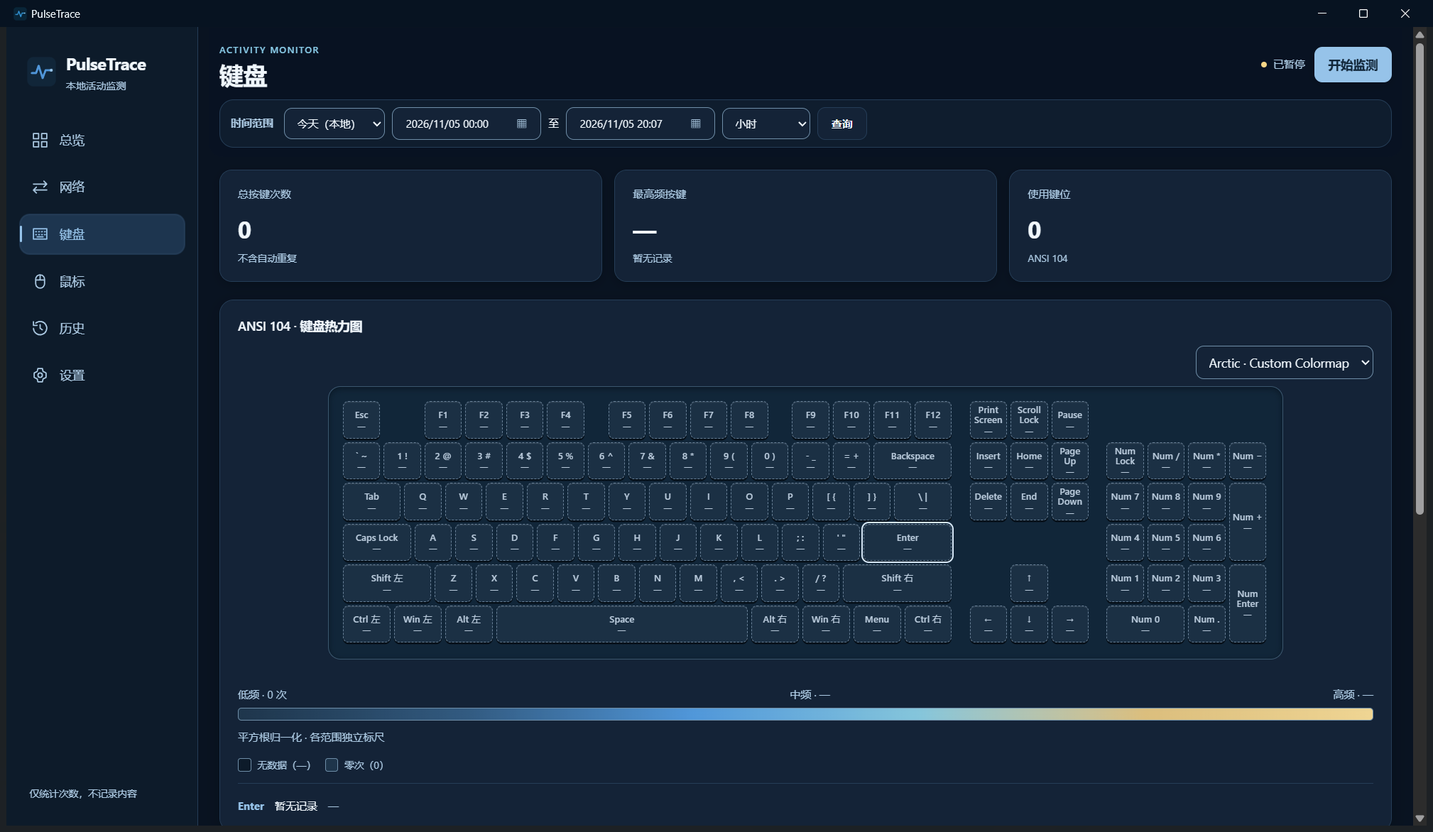
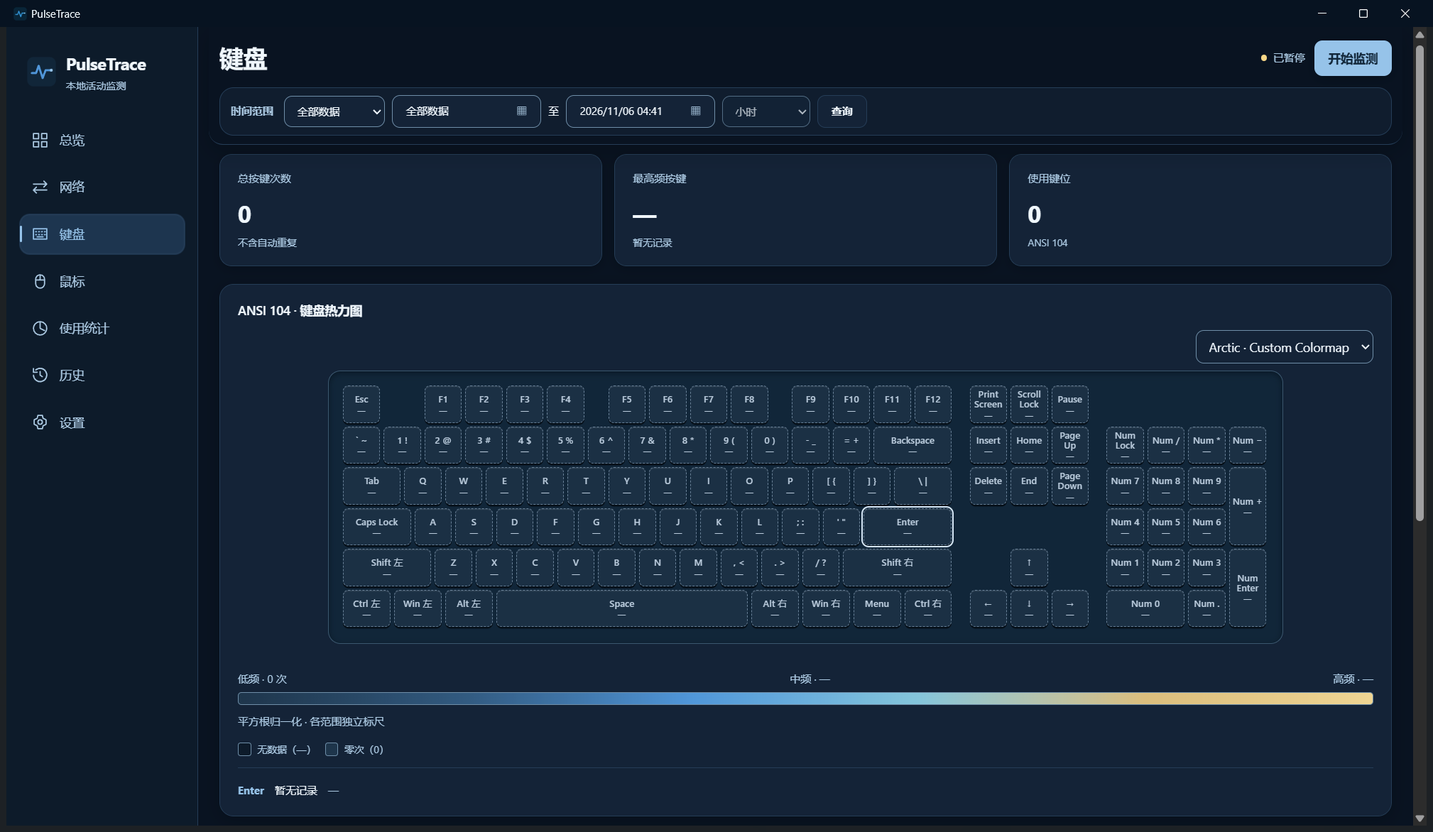
docs: update README with latest features and screenshots
Refresh six real paused Release captures and bilingual feature coverage. Record current process-tree measurements with their source and distinguish main from published RC3. Adjust only the mouse selftest screenshot framing; ordinary UI behavior is unchanged.

diff --git a/web/desktop/product.js b/web/desktop/product.js
@@ -59,7 +59,7 @@ async function refresh(force=false){if(loading){if(force)refreshQueued=true;retu
  if(page==='network'){await refreshTrafficRankings();await refreshTrafficCalendar();if(!force&&(rankingView.root?.contains(document.activeElement)||calendarView.root?.contains(document.activeElement)))return;}
  if(generation!==viewGeneration)return;
  const relevant=page==='keyboard'?rows.filter(r=>['keyboard','repeat','coverage'].includes(r.module)):page==='mouse'?rows.filter(r=>['mouse','coverage'].includes(r.module)):page==='network'?rows.filter(r=>r.module==='network'):rows;const key=JSON.stringify({page,usage:page==='usage'?usageView.result:null,monthlyTraffic,calendar:page==='network'?calendarView.result:null,comparisonRows:page==='dashboard'?comparisonRows:null,rows:relevant,protocolSamples:['network','dashboard'].includes(page)?protocolSamples:null,networkEvents:['network','dashboard'].includes(page)?networkEvents:null,config:state.config,network:['network','dashboard','settings'].includes(page)?state.network:null,monitoring:state.monitoring,input:state.input_ready,storage_error:state.storage_error,network_error:state.network_error});window.pulseRefreshCount=(window.pulseRefreshCount||0)+1;if(!force&&key===renderKey)return;renderKey=key;clearCharts();const c=$('content');c.classList.remove('network-content');c.replaceChildren();mountRangeControls();$('title').textContent=names[page];document.querySelectorAll('nav button').forEach(b=>b.classList.toggle('active',b.dataset.page===page));({dashboard,network:networkPage,keyboard:keyboardPage,mouse:mousePage,history,settings,usage:appUsage}[page]||dashboard)(c);
- finishStartup();if(state.self_test&&!healthChecked){await validateLanguageState();await validateThemeState();await runLayoutChecks();await validateStaticInteractions();await validateUpdateNotice();validateDisclosureControls();await validateWidgetStyleSettings();if(page==='network')await validateTrafficRankingView();await validateCalendarLanguages();if(page==='dashboard')await validateScrollMaterial();if(page==='network'&&state.monitoring){await new Promise(resolve=>setTimeout(resolve,3000));state=await rpc('get_status');const fresh=await rpc('get_statistics',range);rows=fresh.rows;protocolSamples=fresh.protocol_samples||[];networkEvents=fresh.network_events||[];clearCharts();$('content').replaceChildren();networkPage($('content'));await new Promise(resolve=>requestAnimationFrame(resolve));}if(page==='network'||page==='settings')window.scrollTo({top:0,behavior:'instant'});if(page==='mouse')document.querySelector('.mouse-layout')?.scrollIntoView({block:'center'});if(page==='keyboard')document.querySelector('.keyboard-heat')?.closest('.panel').scrollIntoView({block:'start'});healthChecked=true;if(state.self_test_picker){validatePickerPersistence().then(()=>rpc('ping')).catch(e=>{error(e);rpc('selftest_failure',{message:e.message}).catch(()=>{});});}else await rpc('ping');}
+ finishStartup();if(state.self_test&&!healthChecked){await validateLanguageState();await validateThemeState();await runLayoutChecks();await validateStaticInteractions();await validateUpdateNotice();validateDisclosureControls();await validateWidgetStyleSettings();if(page==='network')await validateTrafficRankingView();await validateCalendarLanguages();if(page==='dashboard')await validateScrollMaterial();if(page==='network'&&state.monitoring){await new Promise(resolve=>setTimeout(resolve,3000));state=await rpc('get_status');const fresh=await rpc('get_statistics',range);rows=fresh.rows;protocolSamples=fresh.protocol_samples||[];networkEvents=fresh.network_events||[];clearCharts();$('content').replaceChildren();networkPage($('content'));await new Promise(resolve=>requestAnimationFrame(resolve));}if(page==='network'||page==='settings')window.scrollTo({top:0,behavior:'instant'});if(page==='mouse')document.querySelector('.mouse-layout')?.closest('.panel').scrollIntoView({block:'start'});if(page==='keyboard')document.querySelector('.keyboard-heat')?.closest('.panel').scrollIntoView({block:'start'});healthChecked=true;if(state.self_test_picker){validatePickerPersistence().then(()=>rpc('ping')).catch(e=>{error(e);rpc('selftest_failure',{message:e.message}).catch(()=>{});});}else await rpc('ping');}
  }catch(e){if(generation!==viewGeneration)return;error(e);if(state.self_test)rpc('selftest_failure',{message:String(e.message).slice(0,500)}).catch(()=>{});}finally{loading=false;if(refreshQueued){refreshQueued=false;queueMicrotask(()=>refresh(true));}else scheduleRefresh();if(updateOpenPending&&state.version){updateOpenPending=false;checkOpenUpdates();}}}
 const pageRanges=new Map();
 function navigate(next){if(!names[next])return;if(next!==page){viewGeneration++;

diff --git a/README_EN.md b/README_EN.md
@@ -1,64 +1,73 @@
 # PulseTrace
 
-A local keyboard, mouse and network activity monitor for Windows.
+A local keyboard, mouse, application usage and network activity monitor for Windows.
 
 [简体中文](README.md) · **English**
 
 ## Features
 
-- **Keyboard**: key counts, frequency and an ANSI 104 heatmap; aggregate counts only.
-- **Mouse**: five buttons, temporal double clicks, vertical/horizontal wheel events and cumulative deltas.
-- **App Usage**: foreground dwell and active time, rankings, hourly/daily trends, exclusions and CSV; [measurement details](docs/app-usage.md).
-- **Network**: interface status, switching history, upload/download rates and physical-interface IPv4/IPv6 traffic observations.
-- **Traffic rankings**: optional Mihomo application/connection-domain rankings with IP-family, time-range, search and sorting controls; domain history requires separate consent.
-- **Taskbar speed**: a native Windows 11 component with transparent background and two-line upload/download display; floating-window or tray fallback.
-- **History**: minute/hour/day and custom ranges, SQLite persistence, monthly network archives, export and backup.
+- **Keyboard**: aggregate key statistics, ANSI 104 layout and the continuous Arctic heatmap.
+- **Mouse**: a five-button diagram and ranking; Mouse4 Back, Mouse5 Forward; temporal double clicks, wheel events and deltas tracked separately.
+- **App Usage**: foreground dwell and active time, rankings, hourly/daily trends, exclusions and CSV export.
+- **Network**: egress upload/download, physical-interface IPv4/IPv6 observations, monthly daily-traffic calendars, interfaces and connection history.
+- **Traffic rankings**: optional Mihomo application/connection-domain rankings with family, range, search and sorting filters; domain history requires separate consent.
+- **Taskbar speed**: a transparent native two-line widget with font, size, units, precision, color and position settings; floating/tray fallback.
+- **History and settings**: All Data by default, minute/hour/day and custom ranges, SQLite, monthly archives, backups and export; Chinese/English, Deep Ocean / Pearl Mist, tray operation and dual-source update checks.
 
-Chinese/English, light/dark themes and tray background operation are supported. Collection starts paused. Input text and mouse trajectories are not recorded. IPv4/IPv6 observations and rankings depend on permissions, sampling and data quality; they do not represent complete system traffic or campus billing. See [measurement limits](docs/traffic-rankings.md).
+Collection starts paused. Input text, window titles and mouse trajectories are not recorded. Active time uses an idle threshold; IPv4/IPv6 and rankings depend on permissions, sampling and quality, and do not represent full-system traffic or campus billing. Unsigned update packages require manual installation after verification. [Measurement limits](docs/traffic-rankings.md) · [App Usage](docs/app-usage.md)
 
 ## Screenshots
 
-Real Release builds using isolated empty data directories and paused collection; no fabricated statistics or personal records. Page captures use 1600×900 DIP; the taskbar image is a native-size detail.
+Real x64 Release development build of main `b3a2cbf`, using isolated empty data and paused collection; no synthetic statistics or personal history. Pages use 1600×900 DIP; the taskbar image is an actual crop.
 
-| Dashboard | Network and rankings |
+| Dashboard | Network |
 | --- | --- |
-| ![Dashboard](docs/screenshots/dashboard.png) | ![Network and rankings](docs/screenshots/network.png) |
-| **ANSI 104 keyboard heatmap** | **Taskbar component (paused)** |
-| ![Keyboard heatmap](docs/screenshots/keyboard.png) | ![Taskbar component](docs/screenshots/taskbar.png) |
+| ![Dashboard](docs/screenshots/dashboard.png) | ![Network](docs/screenshots/network.png) |
+| **ANSI 104 keyboard heatmap** | **Taskbar widget (paused)** |
+| ![Keyboard heatmap](docs/screenshots/keyboard.png) | ![Taskbar widget](docs/screenshots/taskbar.png) |
 
-## Resource usage
+<details>
+<summary>Mouse and App Usage</summary>
 
-Measured on 2026-11-05: Windows 11 26300, Ryzen 5 5600 (12 logical processors), 31.92 GiB RAM, WebView2 156.0.4314.58. The x64 Release build is from main `14f4f1f`, with monitoring enabled, no deliberate input/network load, and ranking sources disabled. Each state ran for 45 seconds; values are means over seconds 10–40.
+| Mouse | App Usage |
+| --- | --- |
+| ![Mouse](docs/screenshots/mouse.png) | ![App Usage](docs/screenshots/usage.png) |
 
-| State | CPU (machine-normalized) | Private Bytes | Working Set |
+</details>
+
+## Resource Usage
+
+Measured main `d414ecf`: Windows 11 26300, Ryzen 5 5600 (12 logical processors), 31.92 GiB RAM, 125% DPI, WebView2 156.0.4314.58. Each run lasted 45 seconds; means use seconds 10–40, with monitoring enabled, no deliberate input/network load and ranking sources disabled.
+
+| State | CPU (machine normalized) | Private Bytes | Working Set |
 | --- | ---: | ---: | ---: |
-| Background monitoring, tray only | 0.031% | 8.30 MiB | 34.58 MiB |
-| Main window open, including WebView2 children | 0.095% | 261.07 MiB | 456.77 MiB |
-| Background monitoring + taskbar speed | 0.049% | 9.38 MiB | 40.47 MiB |
+| Background monitoring, tray only | 0.039% | 8.54 MiB | 34.69 MiB |
+| Main window open, including WebView2 children | 0.111% | 262.10 MiB | 460.99 MiB |
+| Background monitoring + taskbar speed | 0.022% | 9.20 MiB | 40.37 MiB |
 
-The taskbar component process alone averaged **2.81 MiB Private Bytes / 17.73 MiB Working Set**; no CPU-time increment was resolved during this short run. Tray-only mode also retains the helper, so its process memory is not the difference between the two totals. Private Bytes measures private committed memory; Working Set measures resident pages, with shared pages counted repeatedly when processes are summed.
+All rows include the native helper; the taskbar helper alone used **2.81 MiB Private Bytes / 17.55 MiB Working Set**. Private Bytes measures private committed memory; Working Set measures resident pages, and summing processes double-counts shared pages. These short runs establish neither long-term limits nor performance improvements.
 
-Actually installed program files occupied **17.39 MiB**, including the uninstaller but excluding the system WebView2 Runtime and `data`. After 45 seconds, the data directory used about **0.10 MiB** in background mode and **10.72 MiB** after first opening the UI, mostly WebView2 cache. These are file-size sums, not physical write volume or a long-term growth forecast. See [methodology and full results](docs/performance.md).
+Current program files listed by the installer total **11.07 MiB**, excluding the uninstaller, system Runtime and `data`; the current installed size including the uninstaller remains untested. After 45 seconds, data files totaled approximately **0.12 MiB** for background/taskbar and **10.73 MiB** with the window open, including WebView2 cache. Measurement reports are excluded; file sizes are not disk writes. [Methods and results](docs/performance.md)
 
-## Download and install
+## Download and Install
 
 [GitHub Releases](https://github.com/zhangchengxuv/PulseTrace/releases) · [Gitee Releases](https://gitee.com/zhangchenxuv/pulse-trace/releases)
 
 Windows 10/11 x64 with Microsoft Edge WebView2 Evergreen Runtime is required.
 
-- **Installer**: run `PulseTrace-Setup-*.exe` and choose a location. Data lives in its `data` subdirectory and is retained by default on uninstall.
-- **Portable**: extract the complete ZIP and launch `PulseTrace.exe`, keeping the Web resources, DLL and helpers together.
+- **Installer**: run `PulseTrace-Setup-*.exe`; data lives in the installation's `data` folder and is retained by default on uninstall.
+- **Portable**: extract the complete ZIP, retain Web assets, DLLs and helper, then run `PulseTrace.exe`.
 
-Candidate **v0.3.0-rc3** is available with matching assets on both sources. Main may be ahead of published packages; screenshots and measurements describe the development build above. [User guide](docs/desktop-guide.md) · [Build from source](docs/build.md).
+Public candidate **v0.3.0-rc3** has matching assets on both sources. The new UI and settings shown here are currently on main; installers have not been republished. [User guide](docs/desktop-guide.md) · [Build from source](docs/build.md)
 
-## Technology
+## Stack
 
 C++20 · Win32 / Raw Input · WebView2 · SQLite · CMake
 
-## AI development disclosure and license
+## AI Development and License
 
 PulseTrace is an open-source project developed with the assistance of OpenAI Codex. Its code, interface, and documentation were created with AI assistance and validated through builds and testing. This is not an official OpenAI product.
 
 - **AI tool**: OpenAI Codex.
-- **Confirmed model**: GPT-6. There is no complete model inventory for historical sessions; unverified models are not listed.
-- **License**: PulseTrace-owned source and documentation use the [MIT License](LICENSE). Third-party components retain their own licenses; see [third-party notices](THIRD-PARTY-NOTICES.md). TrafficMonitor was consulted for taskbar concepts, without porting its code.
+- **Verified model**: GPT-6; unconfirmed historical models are omitted.
+- **License**: project-owned code and documentation use the [MIT License](LICENSE). Dependencies retain their own licenses; see [third-party notices](THIRD-PARTY-NOTICES.md). TrafficMonitor was consulted for concepts; its code was not ported.

diff --git a/README.md b/README.md
@@ -1,44 +1,53 @@
 # PulseTrace
 
-面向 Windows 的本地键盘、鼠标与网络活动统计工具。
+面向 Windows 的本地键鼠、应用使用与网络活动统计工具。
 
 **简体中文** · [English](README_EN.md)
 
 ## 功能特性
 
-- **键盘**：按键次数、频率和 ANSI 104 热力图，仅保存聚合计数。
-- **鼠标**：五键、时间双击、垂直/水平滚轮事件与累计滚动量。
-- **应用使用**：前台停留与有效活跃时长、排行、小时/日期趋势、排除列表和 CSV；[统计说明](docs/app-usage.md)。
-- **网络**：接口状态、切换历史、上传/下载速率及物理接口 IPv4/IPv6 流量观测。
-- **流量排行**：可选 Mihomo 应用/连接域名排行，支持协议族、时间范围、搜索和排序；域名历史单独授权。
-- **任务栏网速**：Windows 11 原生组件、透明背景、上传/下载双行显示，支持悬浮窗或托盘回退。
-- **历史分析**：分钟/小时/天及自定义范围、SQLite 持久化、月度网络归档、导出与备份。
+- **键盘**：按键聚合统计、ANSI 104 布局及 Arctic 连续热力图。
+- **鼠标**：二维五键热力图与排行，Mouse4 后退、Mouse5 前进；时间双击、滚轮事件与 delta 分开统计。
+- **应用使用**：前台停留与有效活跃时长、排行、小时/日期趋势、排除列表及 CSV 导出。
+- **网络**：出口上传/下载、物理接口 IPv4/IPv6 观测、自然月每日流量热力图、接口与连接历史。
+- **流量排行**：可选 Mihomo 应用/连接域名排行，支持协议族、范围、搜索与排序；域名历史单独授权。
+- **任务栏网速**：原生透明双行组件，支持字体、字号、单位、精度、颜色及位置设置，提供悬浮窗/托盘回退。
+- **历史与设置**：默认全部数据、分钟/小时/天及自定义范围，SQLite、月度归档、备份与导出；中英双语、Deep Ocean / Pearl Mist、托盘后台及双源更新检查。
 
-支持中英双语、深浅色主题与后台托盘运行，首次启动默认暂停。不记录输入文本或鼠标轨迹。IPv4/IPv6 观测及排行受权限、采样与数据质量限制，不代表系统全量流量或校园网计费；[统计边界](docs/traffic-rankings.md)。
+首次启动默认暂停，不记录输入文本、窗口标题或鼠标轨迹。活跃时长使用空闲阈值；IPv4/IPv6 与排行受权限、采样及质量限制，不代表全系统流量或校园网计费。未签名更新包只支持校验后手动安装。[统计边界](docs/traffic-rankings.md) · [应用使用说明](docs/app-usage.md)
 
 ## 软件截图
 
-真实 Release 构建，采用独立空数据目录与暂停状态，未填充模拟统计或展示个人记录。页面统一为 1600×900 DIP；任务栏为原尺寸局部。
+main `b3a2cbf` 的真实 x64 Release 开发构建；独立空数据目录、暂停状态，无模拟统计或个人历史。页面为 1600×900 DIP，任务栏为实际局部。
 
-| 总览 | 网络与排行 |
+| 总览 | 网络 |
 | --- | --- |
-| ![总览](docs/screenshots/dashboard.png) | ![网络与排行](docs/screenshots/network.png) |
+| ![总览](docs/screenshots/dashboard.png) | ![网络](docs/screenshots/network.png) |
 | **ANSI 104 键盘热力图** | **任务栏组件（暂停）** |
 | ![键盘热力图](docs/screenshots/keyboard.png) | ![任务栏组件](docs/screenshots/taskbar.png) |
 
+<details>
+<summary>鼠标与应用使用统计</summary>
+
+| 鼠标 | 应用使用 |
+| --- | --- |
+| ![鼠标](docs/screenshots/mouse.png) | ![应用使用](docs/screenshots/usage.png) |
+
+</details>
+
 ## 性能占用
 
-2026-11-05，Windows 11 26300、Ryzen 5 5600（12 逻辑核）、31.92 GiB RAM、WebView2 156.0.4314.58。测试 main `14f4f1f` 的 x64 Release 构建，监测启用、无主动输入/网络负载，排行来源关闭。每种状态运行 45 秒，取第 10–40 秒均值。
+实测 main `d414ecf`：Windows 11 26300、Ryzen 5 5600（12 逻辑核）、31.92 GiB RAM、125% DPI、WebView2 156.0.4314.58。每组 45 秒，取第 10–40 秒均值；启用监测，未主动生成输入或网络负载，排行来源关闭。
 
 | 运行状态 | CPU（整机归一化） | Private Bytes | Working Set |
 | --- | ---: | ---: | ---: |
-| 后台监测，仅托盘 | 0.031% | 8.30 MiB | 34.58 MiB |
-| 主界面打开，含 WebView2 子进程 | 0.095% | 261.07 MiB | 456.77 MiB |
-| 后台监测 + 任务栏网速 | 0.049% | 9.38 MiB | 40.47 MiB |
+| 后台监测，仅托盘 | 0.039% | 8.54 MiB | 34.69 MiB |
+| 主界面打开，含 WebView2 子进程 | 0.111% | 262.10 MiB | 460.99 MiB |
+| 后台监测 + 任务栏网速 | 0.022% | 9.20 MiB | 40.37 MiB |
 
-任务栏组件进程单独为 **2.81 MiB Private Bytes / 17.73 MiB Working Set**，此短测未分辨到 CPU 时间增量。仅托盘模式也保留 helper，因此组件进程内存不等于两行总量之差。Private Bytes 是私有提交量；Working Set 是驻留工作集，进程求和会重复计算共享页。
+以上均包含原生 helper；任务栏 helper 单独为 **2.81 MiB Private Bytes / 17.55 MiB Working Set**。Private Bytes 是私有提交量；Working Set 是驻留工作集，进程求和会重复计算共享页。短测不代表长期上限或性能提升。
 
-实际安装程序文件 **17.39 MiB**（含卸载器，不含系统 WebView2 Runtime 和 `data`）。45 秒后数据目录：后台约 **0.10 MiB**，首次打开界面约 **10.72 MiB**，主要为 WebView2 缓存。以上为文件大小总和，不是物理写入量或长期增长预测。[采样方法与完整数据](docs/performance.md)。
+当前安装清单中的程序文件合计 **11.07 MiB**，不含卸载器、系统 Runtime 和 `data`；含卸载器的当前安装体积待测。45 秒后数据文件：后台/任务栏约 **0.12 MiB**，界面约 **10.73 MiB**，包含 WebView2 缓存；排除测量报告，不是磁盘写入量。[完整口径与实测](docs/performance.md)
 
 ## 下载安装
 
@@ -46,10 +55,10 @@
 
 Windows 10/11 x64，需要 Microsoft Edge WebView2 Evergreen Runtime。
 
-- **安装版**：运行 `PulseTrace-Setup-*.exe`，选择安装位置；数据位于安装目录的 `data`，卸载默认保留。
-- **便携版**：完整解压 ZIP 后运行 `PulseTrace.exe`，保留同目录的 Web 资源、DLL 和 helper。
+- **安装版**：运行 `PulseTrace-Setup-*.exe`；数据在安装目录的 `data`，卸载默认保留。
+- **便携版**：完整解压 ZIP，保留 Web 资源、DLL 和 helper，运行 `PulseTrace.exe`。
 
-当前候选版 **v0.3.0-rc3** 已在两源提供相同附件。main 可能领先于发布包；截图和性能对应上述开发构建。[使用说明](docs/desktop-guide.md) · [源码构建](docs/build.md)。
+公开候选版 **v0.3.0-rc3** 两源附件一致；本页新增界面与设置目前在 main，尚未重发安装包。[使用说明](docs/desktop-guide.md) · [源码构建](docs/build.md)
 
 ## 技术栈
 
@@ -60,5 +69,5 @@ C++20 · Win32 / Raw Input · WebView2 · SQLite · CMake
 PulseTrace 是一个使用 OpenAI Codex 辅助开发的开源项目。主要代码、界面和文档由 OpenAI 模型辅助生成，并经过实际构建与测试。本项目并非 OpenAI 官方产品。
 
 - **AI 工具**：OpenAI Codex。
-- **可确认模型**：GPT-6；历史会话没有完整模型清单，未核实的模型不列出。
-- **协议**：PulseTrace 自有源码及文档采用 [MIT License](LICENSE)；第三方组件保留各自许可，见 [第三方声明](THIRD-PARTY-NOTICES.md)。TrafficMonitor 仅作任务栏机制参考，未移植其代码。
+- **可核实模型**：GPT-6；未确认的历史模型不列出。
+- **协议**：自有源码及文档采用 [MIT License](LICENSE)；第三方组件保留各自许可，见 [第三方声明](THIRD-PARTY-NOTICES.md)。TrafficMonitor 仅作机制参考，未移植其代码。

diff --git a/docs/performance.md b/docs/performance.md
@@ -1,5 +1,49 @@
 # README 性能与素材核验 / Measurement and asset provenance
 
+## 当前 main：d414ecf
+
[1 lines of base64/hex data omitted]
+
+沿用下面相同方法和配置，三组依次运行各 45 秒，采样第 10–40 秒，样本数 50/48/49，有效墙钟 29.71/29.41/29.12 秒；普通用户监测启用、未主动生成输入或流量，排行来源关闭，AppUsage 开启、刷盘 30 秒。窗口组包含当前默认的异步打开更新检查。各实例均正常退出，无已观察子进程残留。
+
+| 状态 | CPU 均值 / 峰值 | Private Bytes 均值 / 峰值 MiB | Working Set 均值 / 峰值 MiB | 线程 / 句柄均值 | 进程 IO WriteTransfer 增量 |
+| --- | ---: | ---: | ---: | ---: | ---: |
+| 后台监测，仅托盘 | 0.039% / 0.431% | 8.54 / 8.78 | 34.69 / 34.87 | 17.7 / 439.1 | 129,555 B |
+| 主界面 + 全部已观察 WebView2 子进程 | 0.111% / 0.841% | 262.10 / 272.38 | 460.99 / 472.68 | 238.8 / 3994.0 | 1,072,070 B |
+| 后台监测 + 任务栏网速 | 0.022% / 0.216% | 9.20 / 9.57 | 40.37 / 40.73 | 19.3 / 479.2 | 174,716 B |
+
+helper 单独为 **2.81 MiB Private Bytes / 17.55 MiB Working Set**。Private Bytes/Working Set 定义、CPU 整机归一化和采样误差同下；进程 IO 含 IPC，不能当作物理磁盘写入。顺序短测的 CPU/缓存波动不可相减作为组件的精确增量或优化收益。
+
+退出后应用数据文件（已排除测量报告）分别 125,922 B / 11,248,053 B / 125,924 B。当前安装文件清单实测 11,611,721 B（11.07 MiB，58 文件），不含卸载器、系统 Runtime 和 data；未覆盖或测试用户当前安装。
+
+原始采样留在忽略的 build/readme-final-1793912055830，仅公开聚合资源数值。截图仍是同一产品界面；后续刷新竞争修复不改变静态布局，来源与原始位置见下。两源 Releases 页面 HTTP HEAD 均返回 200，相对链接、六张 PNG 尺寸/无元数据、MIT/第三方许可及中英数值一致性检查通过。主要功能 Release/Debug 已通过各 20/20 CTest。
+
+
+## 前次开发样本：b3a2cbf
+
[1 lines of base64/hex data omitted]
+
+使用 tools/measure-resources.ps1，三组顺序运行，各 45 秒；请求每 500 ms 采样，实际间隔受 CIM 枚举影响。统计第 10–40 秒，后台/窗口/任务栏分别 50/48/49 个样本、有效墙钟 29.90/29.28/29.26 秒。CPU 对 PID 和创建时间匹配的相邻样本计算 CPU 时间增量，再除以墙钟与 12 逻辑核；峰值为单个采样间隔值。进程树依据父子关系及创建时间确定，界面组包括所有观察到的 WebView2 子进程；不含系统其他 Edge 或用户已有 PulseTrace。所有测试均安全退出，无已观察子进程残留。
+
+监测启用，无主动输入/网络流量生成；AppUsage 启用，排行来源关闭，刷盘 30 秒。后台和窗口为 tray 模式（仍保留 helper），任务栏为 embedded、默认字体与单位、水平 -180 DIP，以避开用户原实例。界面采用当前正常打开流程，包含异步更新检查；未修改 Clash、系统主题、DPI、自启动或用户安装。因功能与条件变化，不能把下面与历史表的差值当作优化收益。
+
+| 状态 | CPU 均值 / 峰值 | Private Bytes 均值 / 峰值 MiB | Working Set 均值 / 峰值 MiB | 线程 / 句柄均值 | 进程 IO WriteTransfer 增量 |
+| --- | ---: | ---: | ---: | ---: | ---: |
+| 后台监测，仅托盘 | 0.039% / 0.216% | 8.15 / 8.46 | 34.46 / 34.79 | 18.0 / 439.2 | 129,566 B |
+| 主界面 + 全部已观察 WebView2 子进程 | 0.102% / 1.058% | 260.73 / 272.34 | 457.11 / 470.01 | 236.0 / 3982.1 | 1,088,123 B |
+| 后台监测 + 任务栏网速 | 0.053% / 0.432% | 9.39 / 9.72 | 40.66 / 41.01 | 19.3 / 479.6 | 174,721 B |
+
+Private Bytes 是私有提交内存；Working Set 是驻留内存，跨进程求和可能重复共享页。任务栏 helper 单独为 2.83 MiB Private Bytes / 17.66 MiB Working Set；它也存在于 tray 模式，不能用总量之差当作其独立内存。IO WriteTransfer 含 IPC，**不是物理磁盘写入量**；采样可能漏掉极短命进程或退出前的最后 CPU/IO 增量。没有由本次短测推断长期内存上限、真实硬件输入丢失率或物理网络计费精度。
+
+安装清单实际文件合计 **11,611,347 B（11.07 MiB，58 文件）**：当前三个 Release EXE、Loader、web/desktop、本项目/第三方许可和用户说明。未压缩文件长度求和，不含 Inno 卸载器、系统 WebView2 Runtime、data 或构建工具。当前含卸载器的完整安装体积未测，未覆盖用户已有安装。后台/窗口/任务栏在退出后的数据文件分别 **125,935 B / 10,123,535 B / 125,928 B**，排除测量工具生成的 resource-test JSON，包含配置、SQLite、日志及界面缓存；这是文件大小，不是物理写入量或长期增长预测。
+
+原始证据仅留在忽略的 build/readme-current-1793911030887，不提交进程样本、配置、日志或统计。五个页面产品截图对应 b3a2cbf；本轮仅调整已有鼠标自检的滚动定位以避免截图截断。原始图来自 build/readme-screenshots-1793911211751（鼠标最终图来自 build/readme-mouse-framed-1793911524316）：1600×900 DIP、中文 Deep Ocean、独立空目录及暂停状态；任务栏图来自独立暂停实例的真实局部，不含个人历史。所有图片在 docs/screenshots，统一原生页面尺寸 2018×1172 px，任务栏保持原尺寸；PNG 元数据及引用已检查。任务栏父子关系、屏幕显示、透明背景 18/18 对照和文字命中验证通过。
+
+## 历史记录：14f4f1f
+
+以下保留原基准与许可核验，不能作为当前构建数值。
+
+
 ## 测量范围
 
 2026-11-05，在 Windows 11 Pro 10.0.26300、AMD Ryzen 5 5600、12 逻辑核、31.92 GiB 可见物理内存、125% DPI、WebView2 156.0.4314.58 上测量。对象为 `14f4f1f1296f2b63e0b58120f0752a2b6cae0cd1` 的 0.3.0-rc2 **Release 配置开发构建**，不是把此前发布的 RC2 附件当作含全部 main 功能的新发布。

diff --git a/docs/development-status.md b/docs/development-status.md
@@ -1,10 +1,18 @@
 # PulseTrace 开发状态
 
+## 本轮任务已完成：界面、任务栏及 README
+
+- 已按独立任务提交并同步：鼠标可视化、全部历史默认范围、网络自然月热力图、每次打开界面更新提示、极简启动、Network 概览/折叠/分页、任务栏样式和安全偏移、Settings 六组。源版本保持 0.3.0-rc3，未覆盖已发布候选版附件。
+- 当前 Release/Debug 均实际构建并通过各 20/20 CTest，后续相关增量修改分别重测；鼠标/Network/Settings 的实际 WebView2、自定义日历 61 秒静置、更新弹窗受控元数据、折叠及分页、单位保存/换算均通过。Network/Settings 五档 DIP 尺寸、双语双主题通过；任务栏资源/模拟 DPI 共 202 项，两套构建通过。真实任务栏可见/父窗口/透明背景对照/命中通过，测试实例安全退出，用户已有实例未操作。
+- README 中英同步，六张用户明确要求的产品图使用当前 Release、独立空数据及暂停模式；仅这些经过检查的公开产品图进入仓库，原始桌面/诊断截图、数据库、配置、进程样本和日志仍留在 build。鼠标只调整已有自检的截图滚动位置，不改变正常界面。
+- 新性能样本在刷新竞态修复后重测，对应 d414ecf，三组各 45 秒；后台/窗口（含 WebView2）/任务栏 CPU 0.039/0.111/0.022%，Private Bytes 8.54/262.10/9.20 MiB，完整口径在 docs/performance.md。程序清单 11.07 MiB 不含卸载器/Runtime/data，当前完整安装体积未测。未宣称优化收益或长期内存上限。
+- 剩余均为外部或人工验收：Windows 10/其他版本、真实多屏和其他系统 DPI/刷新率、TranslucentTB 各模式、Explorer 真正重启、锁屏/睡眠/注销及长时间硬件输入/网络对照；ETW 全进程权限和物理 IP 独立参考未解决；发布者签名未配置，下载仍手动安装。未来正式打包需明确发布授权并使用新版本，保留当前 RC3 标签/附件和用户数据。
+
+
 ## 范围/页面切换的异步响应修复
 
 - 新增视图代数，页面、已提交范围或月份变化后丢弃旧查询结果及其错误；进行中的显式刷新合并为一次后续刷新，不丢失用户最后一次查询。无数据库或采集变更。
 - 新增可控延迟的真实 refresh 函数测试，验证旧数据不绘制、最新查询被执行，以及旧失败不覆盖新结果。测试夹具初次遗漏 DOM 查询 stub，已修正并重测，未删失败断言。Release/Debug 构建及各 20/20 CTest 通过。
-
 
 ## Settings 分组
 
